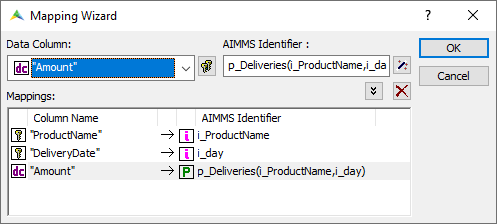
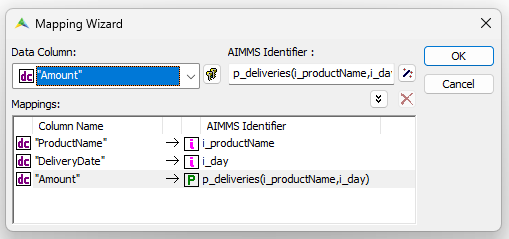
#189: updating to sqlite and github.

Changed region(s): [[0.0, 0.0, 1.0, 1.0]]

diff --git a/Articles/189/189-using-calendars-in-aimms.rst b/Articles/189/189-using-calendars-in-aimms.rst
@@ -1,36 +1,37 @@
-Overview: Calendars in AIMMS
-============================
+Using Calendars in AIMMS
+========================
 
 .. meta::
     :description: Explains how to declare and use calendars in AIMMS for time-based modeling, including database mapping, current time functions, and subset construction.
     :keywords: Calendar, timeslot, SI_Time_Duration, CurrentToTimeSlot, CurrentToString, TimeslotCharacteristic, time-based modeling, database mapping, date format
 
-The word "programming" in Mathematical Programming is about creating a plan, typically a plan to be executed over some period in real-time. 
-This makes reference to real-time an essential ingredient for most decision support applications. 
-Calendars are used in AIMMS to reference to real-time. In this how-to article we will discuss:
+The word "programming" in Mathematical Programming refers to creating a plan — typically one executed over a real-time period.
+This makes real-time references an essential ingredient of most decision support applications.
+Calendars are the AIMMS mechanism for working with real time. This article covers:
 
 #.  How calendars are constructed flexibly
 
-#.  How calendars relate to the date/time fields in database tables
+#.  How calendars relate to date/time fields in database tables
 
-#.  How current time is mapped to elements in a calendar
+#.  How the current time is mapped to elements in a calendar
 
-#.  How information about calendars can be used to construct meaningful subsets such as the Sundays.
+#.  How calendar information can be used to construct meaningful subsets, such as all weekend days
 
-Construction of calendars
--------------------------
+Construction of Calendars
+--------------------------
 
-A calendar is an AIMMS set, a finite collection of elements. 
-The calendar elements, called timeslots, are descriptions of periods of equal length. 
-To describe such a calendar, the length of each timeslot, the begin, and end of the calendar need to be known. 
-The length is based on the unit of measurement available in the quantity ``SI_Time_Duration``. 
-Finally, the presentation of timeslots to users should follow the conventions of those users.
-As a running example, let's use:
+A calendar is an AIMMS set — a finite collection of elements.
+The elements of a calendar are called **timeslots**, and each timeslot represents a period of equal length.
+To define a calendar, you need to specify the timeslot length, the begin date, and the end date.
+The length is expressed using a unit from the quantity ``SI_Time_Duration``.
+The format used to present timeslots to users should follow their conventions.
+
+As a running example:
 
 .. code-block:: aimms
     :linenos:
 
-    DeclarationSection Calendar_Declaration {
+    Section Calendars {
         Quantity SI_Time_Duration {
             BaseUnit: s;
             Conversions: {
@@ -43,137 +44,138 @@ As a running example, let's use:
             }
             Comment: "Expresses the value for the duration of periods.";
         }
-        Parameter p_YearNumber {
-            InitialData: 2016;
+        Parameter p_def_yearNumber {
+            InitialData: 2026;
         }
-        StringParameter sp_CalBeg {
-            Definition: FormatString("%i-01-01", p_YearNumber);
+        StringParameter sp_calBeginDate {
+            Definition: FormatString("%i-01-01", p_def_yearNumber);
         }
-        StringParameter sp_CalEnd {
-            Definition: FormatString("%i-12-31", p_YearNumber);
-        }
-        StringParameter sp_TimeslotFormat {
-            InitialData: "%Am|AllAbbrMonths| %d, %c%y";
+        StringParameter sp_calEndDate {
+            Definition: FormatString("%i-12-31", p_def_yearNumber);
         }
         Calendar cal_daysInYear {
             Index: i_day;
             Parameter: ep_day;
             Unit: day;
-            BeginDate: sp_CalBeg;
-            EndDate: sp_CalEnd;
-            TimeslotFormat: sp_TimeslotFormat;
+            BeginDate: sp_calBeginDate;
+            EndDate: sp_calEndDate;
+            TimeslotFormat: "%c%y-%sm-%sd";
+        }
+        DeclarationSection Auxiliar_Sets {
+            Set s_weekendDays {
+                SubsetOf: cal_daysInYear;
+                Definition: {
+                    { i_day |
+                        TimeslotCharacteristic( i_day, 'weekday' ) = 6 or
+                        TimeslotCharacteristic( i_day, 'weekday' ) = 7 }
+                }
+            }
         }
     }
 
-Some remarks on the above:
+Some remarks on the declaration above:
 
-#.  Lines 2-13. To define the length of a timeslot, we need to use the quantity ``SI_Time_Duration``. 
-    In our example, we only use the conversion for ``day``.
+#.  Lines 2–13: The quantity ``SI_Time_Duration`` is required to define the timeslot length. In this example, only the ``day`` conversion is used.
 
-#.  Lines 14-16. This example shows all days in a particular year, so the year number is the actual input.
+#.  Lines 14–16: The example covers all days in a given year, so ``p_def_yearNumber`` is the only input needed.
 
-#.  Lines 17-19. The calendar begin date is captured by the string parameter ``sp_CalBeg``. 
-    It captures the first day of the year specified by the year number ``p_YearNumber``, so it is easily defined using :any:`FormatString`.
+#.  Lines 17–19: ``sp_calBeginDate`` defines the first day of the specified year using :any:`FormatString`.
 
-#.  Lines 20-22. The calendar end date is defined similarly via the string parameter ``sp_CalEnd``.
+#.  Lines 20–22: ``sp_calEndDate`` defines the last day of the year in the same way.
 
-#.  Lines 23-25. The timeslot format specifies how timeslots are formatted. 
-    A possible value for this format we use the standard AIMMS format for days; so a timeslot is formatted as ``2019-01-01``.
-    Clearly, this may not be the presentation of timeslots your users may be used to. 
-    Here we use "%Am|AllAbbrMonths| %d, %c%y", the format custom to people in the USA.
-    You can choose the format freely, as long as all timeslots are unique.
+#.  Lines 23–30: The calendar itself, using the ISO date format ``"%c%y-%sm-%sd"`` (e.g. ``2026-01-15``). You can choose any format, as long as all timeslots remain unique.
 
-#.  Lines 26-33 The calendar itself. Almost fully parametrized, using the definitions explained above, but still a daily calendar. 
-    The only part not parametrized is that it is by day, and not by some number of days, or by some unit of measurement. 
-    However, to change the granularity of a decision support application, changing it from day to month, or to hours, is quite rare.
+#.  Lines 31–39: The subset ``s_weekendDays`` is declared inside a ``DeclarationSection`` within the same section, grouping auxiliary sets alongside the calendar.
 
-:doc:`advanced-language-components/time-based-modeling/calendars` page provides further details on declaring Calendars.
+For further details on declaring calendars, see :doc:`advanced-language-components/time-based-modeling/calendars`.
 
-Relating calendars in AIMMS to date/time columns in databases
--------------------------------------------------------------
+Relating Calendars to Date/Time Columns in Databases
+------------------------------------------------------
 
-A key feature of Calendars in AIMMS is the natural mapping to date/time columns in a database.
-Consider the following simple database table:
+A key feature of calendars in AIMMS is the natural mapping to date/time columns in a database.
+In this example, the data source is a SQLite database. Consider the following table:
 
-.. image:: images/AccessDatabaseTable.png
+.. image:: images/SQLiteDatabaseTable.png
     :align: center
 
-with design view:
+|
 
-.. image:: images/AccessDatabaseDesignView.png
+with its design view:
+
+.. image:: images/SQLiteDatabaseDesignView.png
     :align: center
 
-Using the AIMMS mapping wizard, we can map the columns in the database table to the identifiers in AIMMS:
+|
+
+Using the AIMMS mapping wizard, the database columns can be mapped to AIMMS identifiers:
 
 .. image:: images/databaseWizard.png
     :align: center
 
-Reading the data and then displaying it in the WebUI results in:
+|
+
+Reading the data and displaying it in the WebUI produces:
 
 .. image:: images/deliveryDataWebUI.png
     :align: center
 
-As you can see, without any programming on dates, the format of the dates in the WebUI presentation changed.
-This is achieved because the calendar timeslots are mapped onto date/time fields in the database.
+|
 
-Using current time
+Without any manual date formatting code, the date format in the WebUI changes automatically.
+This happens because calendar timeslots are mapped directly onto date/time fields in the database.
+
+Using Current Time
 ------------------
 
 AIMMS provides two functions to obtain the current time: :any:`CurrentToString` and :any:`CurrentToTimeSlot`.
-The difference is that the one is resulting in a string, the other a timeslot. Both are useful for our running example.
+:any:`CurrentToString` returns a string, while :any:`CurrentToTimeSlot` returns a timeslot element. Both are useful in this context.
 
-Initializing the current year
-^^^^^^^^^^^^^^^^^^^^^^^^^^^^^ 
+Initializing the Current Year
+^^^^^^^^^^^^^^^^^^^^^^^^^^^^^^
 
-The function :any:`CurrentToString` returns the current date/time formatted according its argument. 
-So the current year can be initialized by the following statement:
+:any:`CurrentToString` returns the current date/time formatted according to its argument.
+The current year can be initialized with the following statement, placed in ``MainInitialization``:
 
 .. code-block:: aimms
 
-    p_YearNumber := val( CurrentToString("%c%y") );
+    p_def_yearNumber := val( CurrentToString("%c%y") );
 
-in the procedure ``MainInitialization``.
+Further information about :any:`CurrentToString` can be found in the AIMMS Function Reference.
 
-Further information about the function :any:`CurrentToString` can be found in AIMMS The Function Reference.
+Obtaining the Current Day as a Calendar Element
+^^^^^^^^^^^^^^^^^^^^^^^^^^^^^^^^^^^^^^^^^^^^^^^^^
 
-Obtaining the current day as element in Calendar
-^^^^^^^^^^^^^^^^^^^^^^^^^^^^^^^^^^^^^^^^^^^^^^^^^^
-
-The function :any:`CurrentToTimeSlot` returns the timeslot in which we are "now" as illustrated in the next statement:
+:any:`CurrentToTimeSlot` returns the timeslot corresponding to the current moment. In ``MainExecution``:
 
 .. code-block:: aimms
 
     ep_day := CurrentToTimeSlot(Calendar : cal_daysInYear );
 
-Further information about the function :any:`CurrentToTimeSlot` can be found in AIMMS The Function Reference.
+Further information about :any:`CurrentToTimeSlot` can be found in the AIMMS Function Reference.
 
-Creating subsets of a calendar based on characteristics of the timeslot
-------------------------------------------------------------------------
+Creating Subsets Based on Timeslot Characteristics
+---------------------------------------------------
 
-To continue our running example, we want to construct a subset of all weekend days, say ``s_WeekendDays``, of calendar ``cal_daysInYear``.
-AIMMS views Saturday as day number 6 and Sunday as day number 7 in a week. Thus we can construct the set ``s_WeekendDays`` as follows:
+The subset ``s_weekendDays`` is a subset of ``cal_daysInYear`` containing all weekend days.
+In AIMMS, Saturday is day 6 and Sunday is day 7 of the week. The subset is defined as follows:
 
 .. code-block:: aimms
 
-    Set s_WeekendDays {
+    Set s_weekendDays {
         SubsetOf: cal_daysInYear;
         Definition: {
             { i_day |
-                TimeslotCharacteristic( i_day, 'weekday' ) = 6 or  
+                TimeslotCharacteristic( i_day, 'weekday' ) = 6 or
                 TimeslotCharacteristic( i_day, 'weekday' ) = 7 }
         }
     }
 
-Further information about the function :any:`TimeSlotCharacteristic` can be found in AIMMS The Function Reference.
+Further information about :any:`TimeSlotCharacteristic` can be found in the AIMMS Function Reference.
 
-The running example is contained in: :download:`AIMMS project download <model/CalendarDemo.zip>` 
+The running example is available for download: :download:`AIMMS project download <model/CalendarDemo.zip>`
 
+.. seealso::
 
-
-
-
-
-
-
-
-
+    * :doc:`../401/401-calendar` — Example project demonstrating calendar declarations, timeslot formats, and date picker dialogs in AIMMS.
+    * :doc:`../410/410-date-aggregation` — How to switch dynamically between day, week, and month aggregations using ``CreateTimeTable`` and ``TimeslotCharacteristic``.
+    * :doc:`../408/408-database-interface-generation` — Using Model Edit functions to automatically generate database table links and identifier mappings from existing database schemas.
